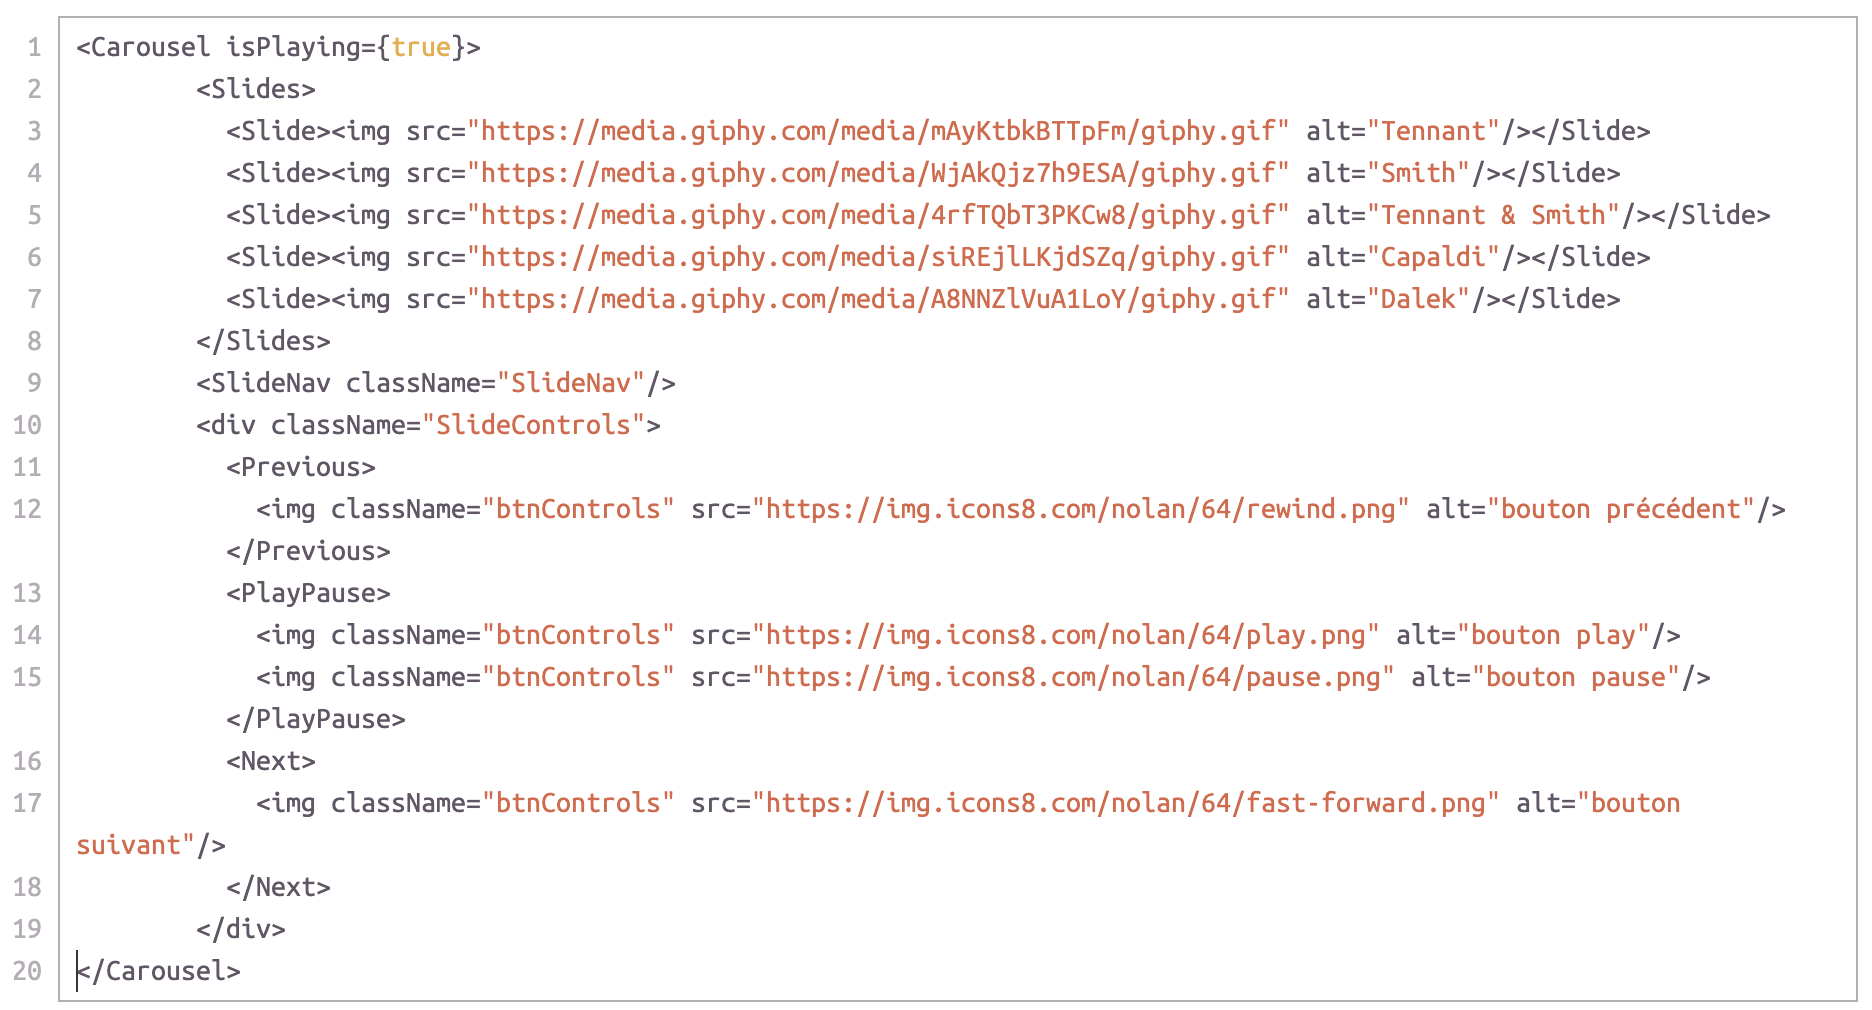
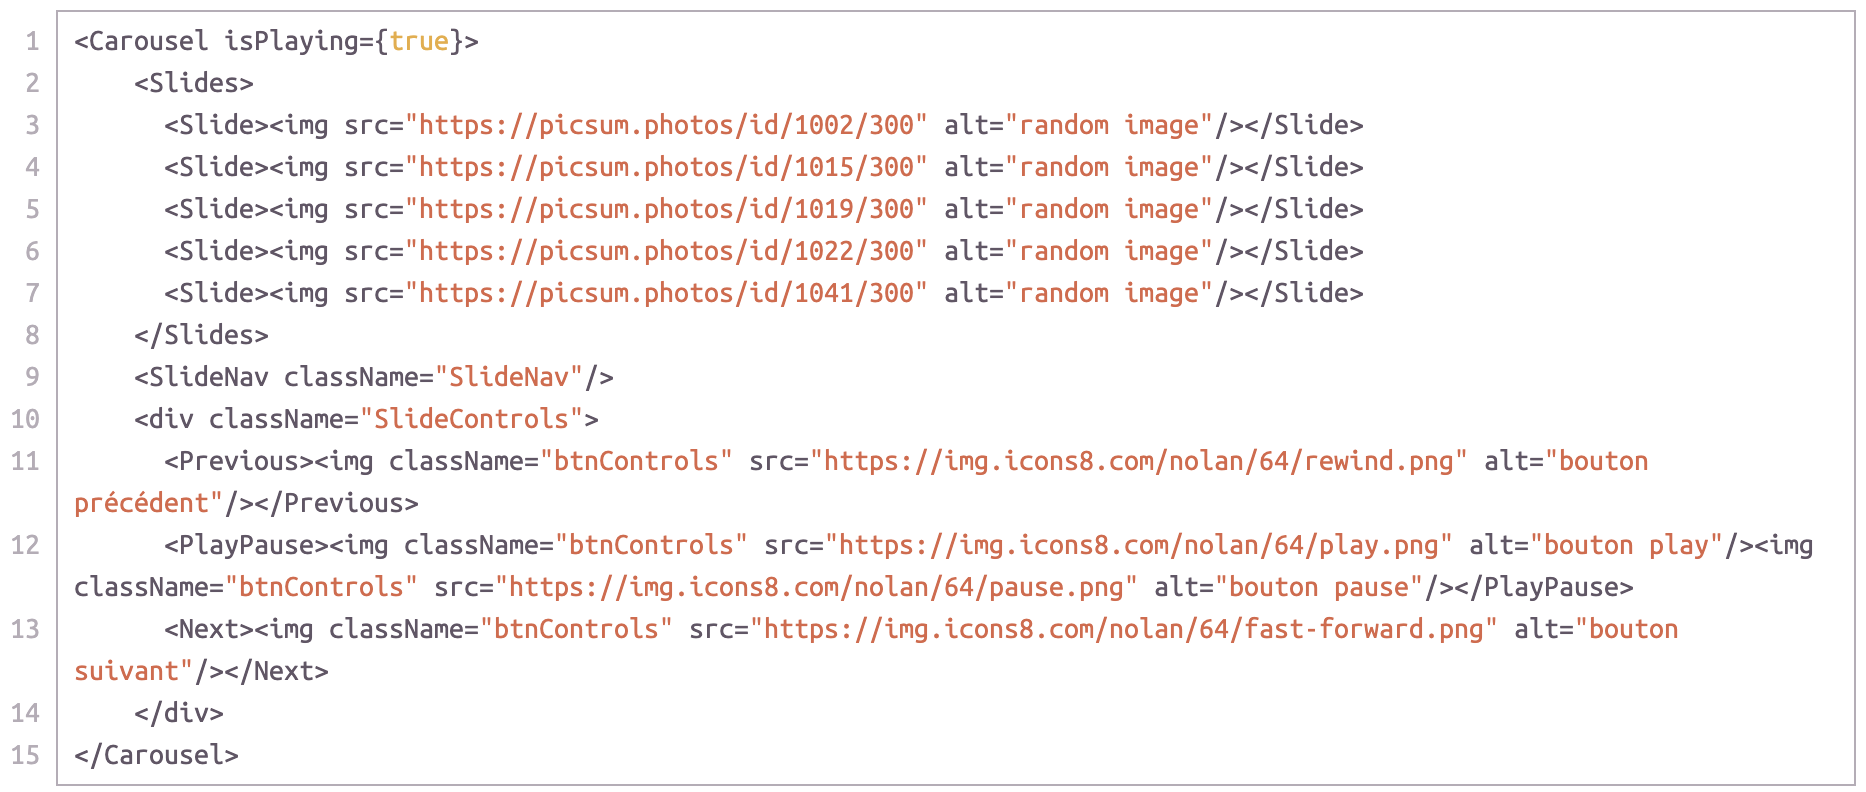
switch GIF to pictures

diff --git a/src/App.js b/src/App.js
@@ -132,11 +132,11 @@ function App() {
                 </Tabs>
                 <Carousel isPlaying={true}>
                   <Slides>
-                    <Slide><img src="https://media.giphy.com/media/mAyKtbkBTTpFm/giphy.gif" alt="Tennant"/></Slide>
-                    <Slide><img src="https://media.giphy.com/media/WjAkQjz7h9ESA/giphy.gif" alt="Smith"/></Slide>
-                    <Slide><img src="https://media.giphy.com/media/4rfTQbT3PKCw8/giphy.gif" alt="Tennant & Smith"/></Slide>
-                    <Slide><img src="https://media.giphy.com/media/siREjlLKjdSZq/giphy.gif" alt="Capaldi"/></Slide>
-                    <Slide><img src="https://media.giphy.com/media/A8NNZlVuA1LoY/giphy.gif" alt="Dalek"/></Slide>
+                    <Slide><img src="https://picsum.photos/id/1002/300" alt="random image"/></Slide>
+                    <Slide><img src="https://picsum.photos/id/1015/300" alt="random image"/></Slide>
+                    <Slide><img src="https://picsum.photos/id/1019/300" alt="random image"/></Slide>
+                    <Slide><img src="https://picsum.photos/id/1022/300" alt="random image"/></Slide>
+                    <Slide><img src="https://picsum.photos/id/1041/300" alt="random image"/></Slide>
                   </Slides>
                   <SlideNav className="SlideNav"/>
                   <div className="SlideControls">
@@ -179,8 +179,8 @@ function App() {
                     onModalClosed={onModalClosed}
                 >
                   <ModalButtonClose>X</ModalButtonClose>
-                  <h2>Kings of Con !</h2>
-                  <img src="https://media.giphy.com/media/3o6ZsSQPLIPBqsbT56/giphy.gif" alt="rob and richard"/>
+                  <h2>Lorem Ipsum !</h2>
+                  <img src="https://picsum.photos/id/1053/500" alt="random"/>
                 </Modal>
               </fieldset>
 
